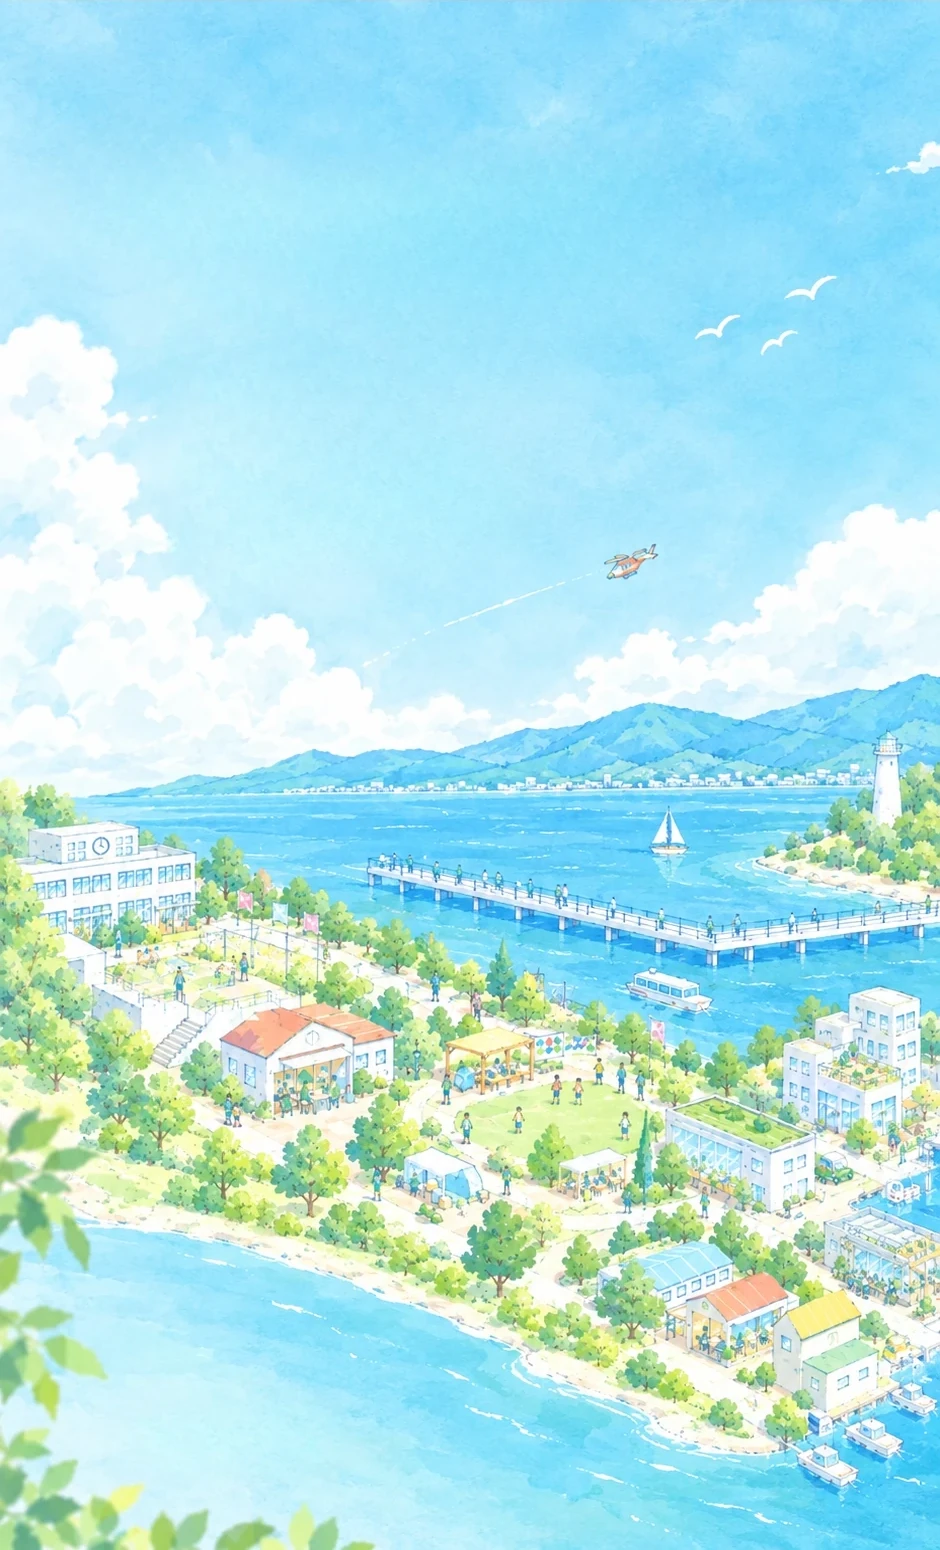
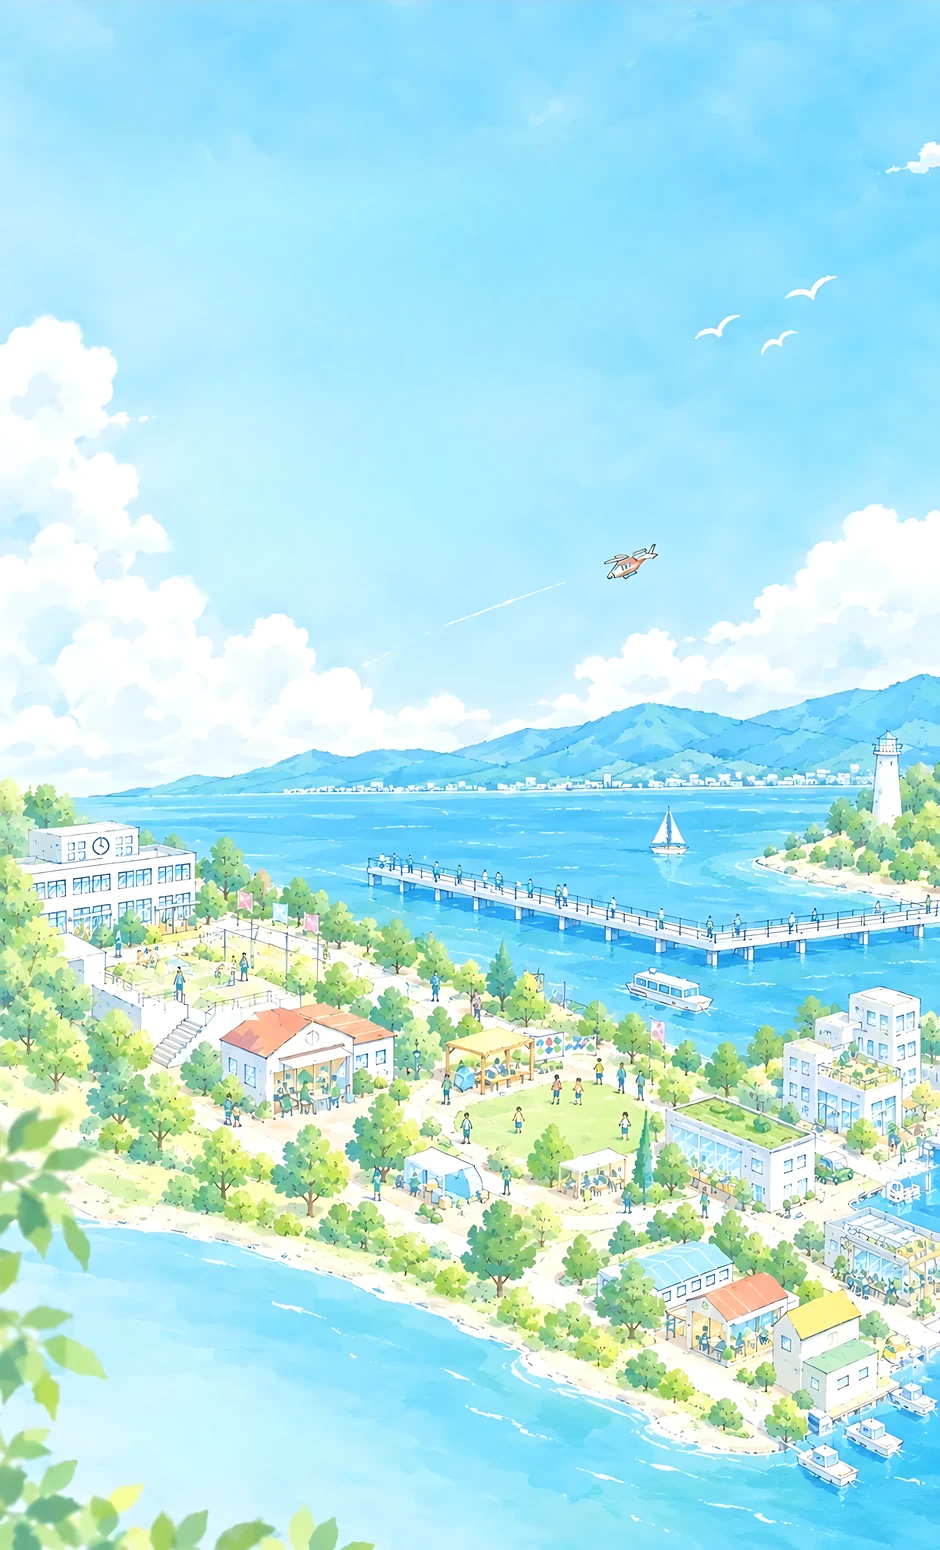
Animate the page and sharpen the hero illustration
Fade the hero in on load and reveal each block as it comes into view,
with a quiet hover on the cards. Motion is skipped for anyone whose
system asks for less of it.

Serve the upscaled town illustration at three widths so high-resolution
screens get the full-size file.

diff --git a/top-c/index.html b/top-c/index.html
@@ -278,6 +278,42 @@ h2{font-weight:900;font-size:clamp(26px,3.4vw,40px);line-height:1.45;margin:8px 
 
 footer{border-top:1px solid var(--line);margin-top:30px;padding:36px 0 56px;color:var(--ink-soft);font-size:13.5px}
 .foot-in{display:flex;justify-content:space-between;gap:16px;flex-wrap:wrap}
+
+/* ───────── 動き ───────── */
+/* 開いたときに、絵がゆっくり落ち着き、文字が下から浮かび上がる */
+@keyframes mp-rise{from{opacity:0;transform:translateY(22px)}to{opacity:1;transform:none}}
+@keyframes mp-settle{from{transform:scale(1.06)}to{transform:scale(1)}}
+.hero-full img{animation:mp-settle 2.4s cubic-bezier(.2,.7,.25,1) both}
+.hero-ttl{animation:mp-rise 1s cubic-bezier(.2,.7,.25,1) .15s both}
+.hero-go{animation:mp-rise .9s cubic-bezier(.2,.7,.25,1) .7s both}
+
+/* スクロールして画面に入ったら、ふわっと出す */
+.rv{opacity:0;transform:translateY(26px);
+  transition:opacity .8s ease, transform .8s cubic-bezier(.2,.7,.25,1)}
+.rv.in{opacity:1;transform:none}
+
+/* 触れたときの小さな反応 */
+.go span,.chip .arw{display:inline-block;transition:transform .25s ease}
+.go:hover span,.chip:hover .arw{transform:translateX(6px)}
+.chip{transition:border-color .2s ease, transform .2s ease, box-shadow .2s ease}
+.chip:hover{transform:translateY(-2px);box-shadow:0 8px 18px rgba(18,62,124,.07)}
+.pj{transition:transform .28s ease, box-shadow .28s ease, border-color .28s ease}
+.pj img{transition:transform .5s cubic-bezier(.2,.7,.25,1)}
+.pj:hover{transform:translateY(-5px);border-color:#C6DBEF;box-shadow:0 16px 34px rgba(18,62,124,.10)}
+.pj:hover img{transform:scale(1.045)}
+.rep .side img,.rep .main img{transition:transform .5s cubic-bezier(.2,.7,.25,1)}
+.rep .side img:hover,.rep .main img:hover{transform:scale(1.03)}
+.submit{transition:transform .15s ease, box-shadow .15s ease, filter .15s ease}
+.submit:hover{filter:saturate(1.08)}
+
+/* 動きが苦手な人の設定を優先する */
+@media(prefers-reduced-motion:reduce){
+  html{scroll-behavior:auto}
+  .hero-full img,.hero-ttl,.hero-go{animation:none}
+  .rv,.rv.in{opacity:1;transform:none;transition:none}
+  .pj,.pj img,.chip,.rep .side img,.rep .main img,.go span,.chip .arw{transition:none}
+  .pj:hover,.pj:hover img,.chip:hover,.go:hover span,.chip:hover .arw{transform:none}
+}
 </style>
 </head>
 <body>
@@ -301,8 +337,14 @@ footer{border-top:1px solid var(--line);margin-top:30px;padding:36px 0 56px;colo
 <section class="hero" id="top">
   <div class="hero-full">
     <picture>
-      <source media="(max-width:860px)" srcset="../assets/hero-town-sp.webp" width="940" height="1550">
-      <img src="../assets/hero-town.webp" width="1646" height="956" fetchpriority="high"
+      <source media="(max-width:860px)" width="940" height="1550" sizes="100vw"
+        srcset="../assets/hero-town-sp.webp?v=2 940w,
+                ../assets/hero-town-sp-1400.webp 1400w,
+                ../assets/hero-town-sp-1880.webp 1880w">
+      <img src="../assets/hero-town.webp?v=2" width="2400" height="1394" fetchpriority="high" sizes="100vw"
+        srcset="../assets/hero-town-1646.webp 1646w,
+                ../assets/hero-town.webp?v=2 2400w,
+                ../assets/hero-town-3292.webp 3292w"
         alt="海辺のまち。学校や公園、桟橋のまわりで子どもたちが遊んだり集まったりしているようすを描いたイラスト">
     </picture>
     <svg class="hero-wave" viewBox="0 0 1440 110" preserveAspectRatio="none" aria-hidden="true">
@@ -612,6 +654,53 @@ footer{border-top:1px solid var(--line);margin-top:30px;padding:36px 0 56px;colo
   });
   n.addEventListener('click', function(e){ if(e.target.tagName === 'A') close(); });
   addEventListener('resize', function(){ if(innerWidth > 860) close(); });
+})();
+</script>
+<script>
+/* スクロールして画面に入った所から、順番にふわっと出す。
+   JavaScript が動かないときは何も付かないので、そのまま全部見えたままになる。 */
+(function(){
+  if(!('IntersectionObserver' in window)) return;
+  if(window.matchMedia && window.matchMedia('(prefers-reduced-motion: reduce)').matches) return;
+
+  var groups = [
+    '.intro .q-row > *',
+    '.intro .band-in > *',
+    '.intro .closing > *',
+    '.pbar-in > *',
+    '.sec-head > *',
+    '.acts .act',
+    '.pjs .pj',
+    '.rep .main',
+    '.rep .side img',
+    '.who > *',
+    '.contact .form'
+  ];
+
+  var items = [];
+  groups.forEach(function(sel){
+    [].slice.call(document.querySelectorAll(sel)).forEach(function(el){
+      if(items.indexOf(el) < 0) items.push(el);
+    });
+  });
+  if(!items.length) return;
+
+  /* 同じ並びのものは、少しずつ遅らせて出す */
+  items.forEach(function(el){
+    var p = el.parentNode;
+    if(!p.__rvIndex){ p.__rvIndex = 0; }
+    var i = p.__rvIndex++;
+    if(i > 0) el.style.transitionDelay = Math.min(i * 0.09, 0.45) + 's';
+    el.classList.add('rv');
+  });
+
+  var io = new IntersectionObserver(function(list){
+    list.forEach(function(e){
+      if(e.isIntersecting){ e.target.classList.add('in'); io.unobserve(e.target); }
+    });
+  }, { rootMargin: '0px 0px -12% 0px', threshold: 0 });
+
+  items.forEach(function(el){ io.observe(el); });
 })();
 </script>
 </body>
